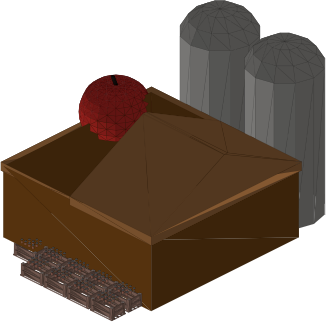
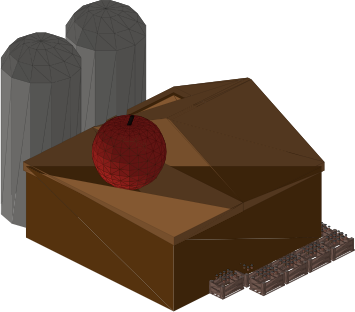
The initial issues have been addressed, and the app is currently running.
## Apple Juice Factory — size & orientation updated

- The factory sprite now fits properly within the 3×3 territory footprint and is centered, avoiding any overflow.
- The apple and roof have been adjusted to match your reference, with appropriate placement of silos and crop boxes.
- These updates have been checked through rendered sprites and linting.

Please test the dragging and placing of the building on a real device, as the web preview's automated drag can occasionally trigger a harmless gesture warning; the placement process remains consistent with other city buildings.

**Next Action Items:**
- Enable merchants to buy and sell Apple Juice so surplus generates stars
- Add an apple orchard tile to allow players to farm apples for the factory
- Include a small badge indicating factory output on the city screen
- Implement a rematch button for quick game restarts with the same settings

**Deployment note:**
- After deploying, builds for iOS and Android can be generated for app store publishing.
- iOS builds require an Apple developer account for TestFlight testing.
- Android builds (.APK and .AAB) can be tested on devices.
- Deployed apps can also be accessed via Expo Go.
- Redeploy and regenerate builds after further updates to reflect changes.

I suggest you try these updates on your devices and let me know if any further issues arise or if you want me to continue with a more comprehensive round of testing.
[…]

diff --git a/frontend/src/components/CityMap.tsx b/frontend/src/components/CityMap.tsx
@@ -32,11 +32,11 @@ const CITY_SPRITE: Record<string, number> = {
   apple_juice_factory: require("../../assets/images/city/apple_juice_factory_tm.png"),
 };
 // height / width of each sprite PNG (hardcoded — Image.resolveAssetSource is unreliable on web).
-const SPRITE_ASPECT: Record<string, number> = { houses: 0.7199, sawmill: 0.5166, stone_quarry: 0.5063, sand_quarry: 0.5094, glass_factory: 0.6639, trade_tower: 2.5809, park: 0.8732, apple_juice_factory: 1.0124 };
+const SPRITE_ASPECT: Record<string, number> = { houses: 0.7199, sawmill: 0.5166, stone_quarry: 0.5063, sand_quarry: 0.5094, glass_factory: 0.6639, trade_tower: 2.5809, park: 0.8732, apple_juice_factory: 1.1378 };
 // A tribe's Material Factory shows its own unique building sprite.
 const FACTORY_SPRITE_BY_TRIBE: Record<string, string> = { nature: "sawmill", volcanic: "stone_quarry", desert: "sand_quarry", snow: "glass_factory" };
 // Width of a sprite as a multiple of its footprint diamond width.
-const SPRITE_SCALE: Record<string, number> = { house: 1.0, factory: 1.0, trade_tower: 1.0, park: 1.08, apple_juice_factory: 1.0 };
+const SPRITE_SCALE: Record<string, number> = { house: 1.0, factory: 1.0, trade_tower: 1.0, park: 1.08, apple_juice_factory: 0.62 };
 const BUILDING_COLOR: Record<string, string> = { house: "#C98A4B", factory: "#8A8F98", trade_tower: "#C7A24B", park: "#5FA85F", apple_juice_factory: "#8A5A34" };
 
 function proj(x: number, y: number) {
@@ -123,9 +123,13 @@ export default function CityMap({ city, tribe, placing, canPlaceAt, onPlace, onC
     const footBottom = mid.y + s * HH; // front-bottom vertex of the footprint diamond
     const key = spriteKeyFor(type);
     if (key == null) return { src: null as number | null, left: mid.x - 12, top: mid.y - 20, w: 24, h: 24, footBottom, mid };
-    const w = s * 2 * HW * (SPRITE_SCALE[type] ?? 1);
+    const sc = SPRITE_SCALE[type] ?? 1;
+    const w = s * 2 * HW * sc;
     const h = w * SPRITE_ASPECT[key];
-    return { src: CITY_SPRITE[key], left: mid.x - w / 2, top: footBottom - h, w, h, footBottom, mid };
+    // A shrunk sprite (sc < 1) is centred inside its footprint diamond: its base sits
+    // at a scaled front vertex so the building stays within the 3×3 territory.
+    const anchorY = mid.y + s * HH * sc;
+    return { src: CITY_SPRITE[key], left: mid.x - w / 2, top: anchorY - h, w, h, footBottom, mid };
   };
 
   const onLayout = (e: LayoutChangeEvent) => {

diff --git a/frontend/scripts/render_apple_juice.py b/frontend/scripts/render_apple_juice.py
@@ -75,6 +75,11 @@ def load(name):
                 keep[i] = False
     tris = tris[keep]; cols = cols[keep]; hasc = hasc[keep]
     R = np.column_stack([tris.reshape(-1, 3)[:, 0], tris.reshape(-1, 3)[:, 2], tris.reshape(-1, 3)[:, 1]]).reshape(tris.shape)
+    yaw = float(os.environ.get("YAW", "90")) * np.pi / 180.0
+    if yaw:
+        ca, sa = np.cos(yaw), np.sin(yaw)
+        x = R[:, :, 0].copy(); y = R[:, :, 1].copy()
+        R[:, :, 0] = ca * x - sa * y; R[:, :, 1] = sa * x + ca * y
     mn = R.reshape(-1, 3).min(0); mx = R.reshape(-1, 3).max(0)
     R[:, :, 0] -= (mn[0] + mx[0]) / 2; R[:, :, 1] -= (mn[1] + mx[1]) / 2; R[:, :, 2] -= mn[2]
     return R, cols, hasc

diff --git a/memory/PRD.md b/memory/PRD.md
@@ -156,7 +156,7 @@ Build a game similar to The Battle of Polytopia. Client-side, local persistence.
 - **City Screen citadel render order (again)** — the citadel was depth-sorted at `baseBottom.y` (its front-corner = the LARGEST footprint depth), so it painted on top of nearly every surrounding house. Changed its sort depth to the footprint **centre** (`center.y`) so the ring of houses in front of and beside it correctly draws over it, while only genuinely-behind houses are occluded. (Verify in a saved city with a big citadel.)
 
 ## Backlog / Next
-- **Apple Juice Factory fixes + tech discount** — (1) **Render bug fixed**: the sprite included the FBX's large green ground plate, so the building sat small/off-centre within the sprite (mis-scaled/mis-positioned on the city map). `scripts/render_apple_juice.py` now drops green-dominant faces in BOTH `load` (so centering & scale `L` use structure-only geometry) and `draw`; re-rendered `apple_juice_factory_tm.png` (24700→6976 tris, aspect 1.5253→1.0124) and updated `SPRITE_ASPECT` in CityMap. (2) Orientation now matches the reference (silos back-right, apple on roof, crops front-left). (3) **Tech Tree apple-juice discount**: `techCost(state, player, techId, juice=0)` and `research(..., juice=0)` take a juice discount — 25% per juice, max 2 (50%), `Math.ceil`; juice is clamped to holdings and CONSUMED on research (single-use, "finishes" after). TechTreeModal has a header bar (`tech-juice-bar`) with None/−25%/−50% pills (`juice-discount-0|1|2`, disabled beyond holdings) driving the live cost + affordability; store `doResearch(techId, juice?)` and game.tsx forward it. Verified: `node scripts/engine_test.js` **331/331** (25/50% off, caps at 2, charges discounted price, consumes juice, full price when none held) + screenshots (fixed sprite PNG; tech-tree discount bar).
+- **Apple Juice Factory size + orientation fix** — building looked oversized (filled the whole 3×3) and the apple/roof were "wrong way round" vs the reference. (1) Re-rendered the sprite with `YAW=90` (default now baked into `scripts/render_apple_juice.py`) so the apple sits on top of the pitched roof; updated `SPRITE_ASPECT` apple_juice_factory → 1.1378. (2) Shrunk it inside the territory via `SPRITE_SCALE.apple_juice_factory = 0.62` and updated `rectFor` in CityMap to anchor a shrunk sprite at a scaled front vertex (`mid.y + s*HH*sc`) so it stays centred within the 3×3 footprint instead of sitting on the full front corner. Verified by viewing the rendered PNG + lint clean. (1) **Render bug fixed**: the sprite included the FBX's large green ground plate, so the building sat small/off-centre within the sprite (mis-scaled/mis-positioned on the city map). `scripts/render_apple_juice.py` now drops green-dominant faces in BOTH `load` (so centering & scale `L` use structure-only geometry) and `draw`; re-rendered `apple_juice_factory_tm.png` (24700→6976 tris, aspect 1.5253→1.0124) and updated `SPRITE_ASPECT` in CityMap. (2) Orientation now matches the reference (silos back-right, apple on roof, crops front-left). (3) **Tech Tree apple-juice discount**: `techCost(state, player, techId, juice=0)` and `research(..., juice=0)` take a juice discount — 25% per juice, max 2 (50%), `Math.ceil`; juice is clamped to holdings and CONSUMED on research (single-use, "finishes" after). TechTreeModal has a header bar (`tech-juice-bar`) with None/−25%/−50% pills (`juice-discount-0|1|2`, disabled beyond holdings) driving the live cost + affordability; store `doResearch(techId, juice?)` and game.tsx forward it. Verified: `node scripts/engine_test.js` **331/331** (25/50% off, caps at 2, charges discounted price, consumes juice, full price when none held) + screenshots (fixed sprite PNG; tech-tree discount bar).
 
 - **Apple Juice Factory (City Screen building)** — new 3×3 city-builder building + new good `apple_juice`. FBX (`apple_juice_factory.fbx`) converted via assimp → glTF and rendered to `assets/images/city/apple_juice_factory_tm.png` by `scripts/render_apple_juice.py` (aspect 1.5253); wired into CityMap (`CITY_SPRITE`/`SPRITE_ASPECT`/`SPRITE_SCALE`/`BUILDING_COLOR`/`spriteKeyFor`). Data: `GoodType += "apple_juice"` (+ CITY_GOODS icon `cup`, START_GOODS, migrateState, goodsIncome init, economyFlow list); `CityBuildingType += "apple_juice_factory"`; CITY_BUILDINGS entry (size 3) + `cityBuildingCost(type, tribe)` helper → **Freemen/desert = 2★**, everyone else **40★**, both +10 wood +2 iron; BUILDING_LIMITS add it per stage (1/2/3/∞). Engine: `canPlaceCityBuilding`/`placeCityBuilding`/`demolishCityBuilding` use tribe cost; `loadAppleFactory(cityId, buildingId, amount)` deducts apples from stock into the building's `feed`; `runCityFactories` converts loaded apples → **1 juice per 5 apples** at turn start (keeps <5 leftover loaded); demolish returns leftover apples + refunds tribe cost. Store: `doLoadAppleFactory`. UI (city.tsx): build menu shows tribe cost; tapping the factory opens `AppleJuiceDialog` (apples available / loaded / →juice preview, stepper + numeric input + "Load all", `juice-load`). Verified: `node scripts/engine_test.js` **324/324** (tribe cost, load/clamp, 12→2 juice + leftover, demolish refund) + Build menu screenshot (40★/10 wood/2 iron shown).
 
